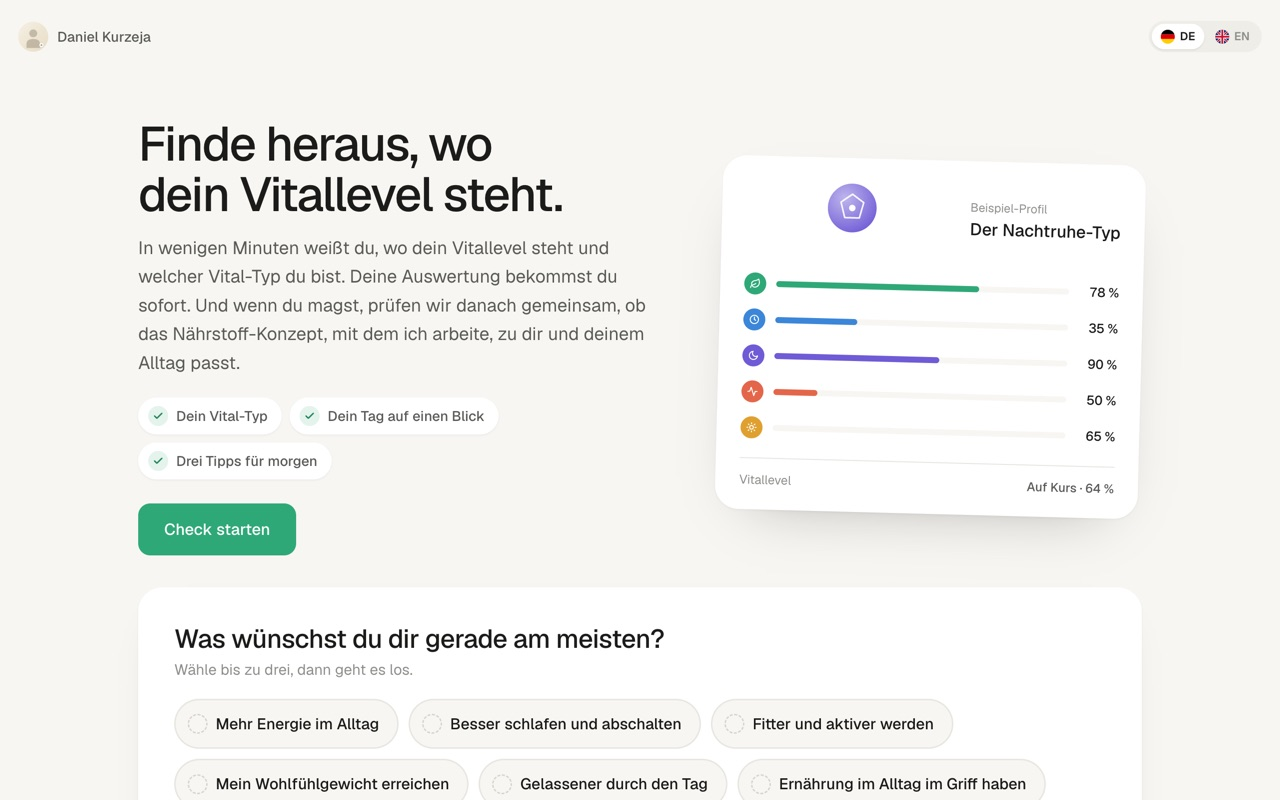
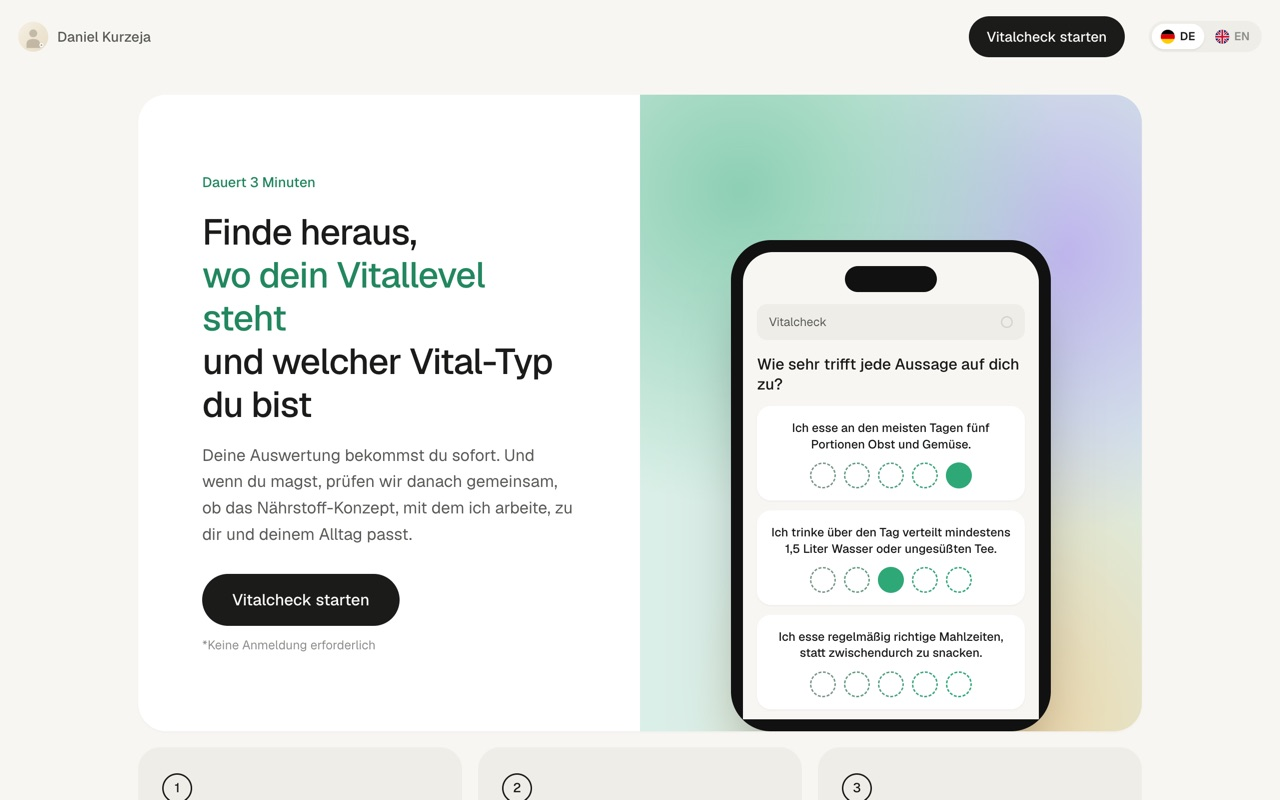
feat(vitalcheck-b): Startseite nach mindprofile-Vorbild (Hero-Karte mit Handy-Mockup, drei Schritt-Karten, Footer-Block), Skala mit gleich großen Kreisen, Wünsche als erste Check-Seite

diff --git a/templates/vitalcheck-b/index.html b/templates/vitalcheck-b/index.html
@@ -65,7 +65,7 @@ h1, h2, h3 { font-weight: 500; letter-spacing: -0.015em; line-height: 1.2; }
 .lang button { display: inline-flex; align-items: center; gap: 5px; padding: 4px 9px; border-radius: 9999px; font-size: 11.5px; font-weight: 600; color: var(--ink-3); }
 .lang button svg { width: 14px; height: 14px; border-radius: 50%; }
 html[data-lang="de"] .lang [data-lang="de"], html[data-lang="en"] .lang [data-lang="en"] { background: var(--paper); color: var(--ink); box-shadow: 0 1px 2px rgba(0,0,0,0.08); }
-@media (max-width: 720px) { .top { flex-wrap: wrap; } .brand { order: 1; } .lang { order: 2; margin-left: auto; } .pill { order: 3; } .brand span { display: none; } }
+@media (max-width: 720px) { .top { flex-wrap: wrap; } .brand { order: 1; } .btn-top { order: 2; } .lang { order: 3; margin-left: auto; } .pill { order: 4; } .brand span { display: none; } .top.landing .lang { margin-left: 8px; } }
 
 /* Seite */
 main { flex: 1; width: 100%; max-width: var(--col); margin: 0 auto; padding: 22px 18px 80px; }
@@ -106,6 +106,47 @@ html[data-theme="midnight"] .hero .gets li i { color: var(--accent); }
 html[data-theme="midnight"] .start .sec-head .no { background: var(--accent); color: var(--on-accent); }
 .start .sec-head h2 { font-size: 20px; }
 .start .sec-head small { font-size: 13.5px; color: var(--ink-3); margin-left: auto; }
+/* ===== Landing nach Vorbild: weiße Hero-Karte, Handy-Mockup, drei Schritt-Karten ===== */
+.top .btn-top { display: none; margin-left: auto; padding: 10px 18px; border-radius: 9999px; background: var(--ink); color: var(--bg); font-size: 14px; font-weight: 500; }
+html[data-theme="midnight"] .top .btn-top { background: var(--accent); color: var(--on-accent); }
+.top.landing .btn-top { display: inline-flex; }
+.top.landing .lang { margin-left: 12px; }
+.lp-hero { display: grid; grid-template-columns: 1fr 1fr; background: var(--paper); border-radius: 28px; overflow: hidden; box-shadow: 0 1px 2px rgba(0,0,0,0.03); }
+.lp-copy { padding: clamp(36px, 6vw, 88px) clamp(28px, 5vw, 64px); display: flex; flex-direction: column; justify-content: center; }
+.lp-copy .kick { font-size: 14px; font-weight: 500; color: var(--accent-dark); margin-bottom: 18px; }
+html[data-theme="midnight"] .lp-copy .kick { color: var(--accent); }
+.lp-copy h1 { font-size: clamp(28px, 3vw, 36px); font-weight: 500; letter-spacing: -0.02em; line-height: 1.2; margin-bottom: 16px; }
+.lp-copy h1 em { font-style: normal; color: var(--accent-dark); display: block; }
+html[data-theme="midnight"] .lp-copy h1 em { color: var(--accent); }
+.lp-copy p { color: var(--ink-2); font-size: 16.5px; line-height: 1.6; max-width: 42ch; margin-bottom: 26px; }
+.lp-copy .btn { align-self: flex-start; border-radius: 9999px; padding: 0 30px; }
+.lp-copy .fine { margin-top: 10px; font-size: 12.5px; color: var(--ink-3); }
+.lp-visual { position: relative; min-height: 460px; background: radial-gradient(120% 90% at 20% 15%, color-mix(in srgb, var(--accent) 55%, #fff) 0%, transparent 55%), radial-gradient(90% 80% at 85% 25%, color-mix(in srgb, #6E5BD6 45%, #fff) 0%, transparent 55%), radial-gradient(100% 90% at 70% 100%, color-mix(in srgb, #E0A030 45%, #fff) 0%, transparent 60%), color-mix(in srgb, var(--accent) 18%, #fff); display: flex; align-items: flex-end; justify-content: center; padding: 36px 24px 0; overflow: hidden; }
+html[data-theme="midnight"] .lp-visual { background: radial-gradient(120% 90% at 20% 15%, color-mix(in srgb, var(--accent) 40%, #0E1412) 0%, transparent 55%), radial-gradient(90% 80% at 85% 25%, color-mix(in srgb, #6E5BD6 35%, #0E1412) 0%, transparent 55%), #16201B; }
+.phone { width: min(320px, 100%); background: #111; border-radius: 40px; padding: 12px; box-shadow: 0 40px 70px -30px rgba(0,0,0,0.55); }
+.phone .scr { background: var(--bg); border-radius: 30px 30px 0 0; padding: 14px 14px 0; min-height: 420px; position: relative; overflow: hidden; }
+.phone .notch { width: 92px; height: 26px; background: #111; border-radius: 14px; margin: 0 auto 12px; }
+.phone .ppill { display: flex; align-items: center; justify-content: space-between; padding: 9px 12px; border-radius: 10px; background: var(--pill); font-size: 12px; color: var(--ink-2); margin-bottom: 14px; }
+.phone .ppill i { width: 12px; height: 12px; border-radius: 50%; border: 1.5px solid var(--line-2); }
+.phone h4 { font-size: 15.5px; font-weight: 500; line-height: 1.3; margin-bottom: 12px; }
+.phone .pc { background: var(--paper); border-radius: 14px; padding: 14px 12px 12px; margin-bottom: 10px; text-align: center; box-shadow: 0 1px 2px rgba(0,0,0,0.04); }
+.phone .pc p { font-size: 12px; font-weight: 500; line-height: 1.35; margin-bottom: 10px; }
+.phone .pc .ps { display: flex; justify-content: center; gap: 8px; }
+.phone .pc .ps i { width: 26px; height: 26px; border-radius: 50%; border: 1.5px dashed; }
+.phone .pc .ps i:nth-child(1) { border-color: var(--k0); } .phone .pc .ps i:nth-child(2) { border-color: var(--k1); } .phone .pc .ps i:nth-child(3) { border-color: var(--k2); } .phone .pc .ps i:nth-child(4) { border-color: var(--k3); } .phone .pc .ps i:nth-child(5) { border-color: var(--k4); }
+.phone .pc .ps i.on { background: var(--accent); border: 0; }
+.lp-steps { display: grid; grid-template-columns: repeat(3, 1fr); gap: 16px; margin-top: 16px; }
+.lp-step { background: var(--pill); border-radius: 22px; padding: 26px 24px 28px; }
+.lp-step .no { width: 30px; height: 30px; border-radius: 50%; border: 1.5px solid var(--ink); display: inline-flex; align-items: center; justify-content: center; font-size: 13px; font-weight: 500; margin-bottom: 18px; }
+.lp-step h3 { font-size: 19px; font-weight: 500; margin-bottom: 8px; }
+.lp-step p { font-size: 14.5px; color: var(--ink-2); line-height: 1.55; }
+@media (max-width: 900px) { .lp-hero { grid-template-columns: 1fr; } .lp-copy { text-align: center; align-items: center; padding: 36px 24px 30px; } .lp-copy .btn { align-self: center; width: 100%; max-width: 360px; } .lp-copy p { margin-left: auto; margin-right: auto; } .lp-visual { min-height: 380px; padding-top: 28px; } .lp-steps { grid-template-columns: 1fr 1fr; } .lp-step:last-child { grid-column: 1 / -1; } }
+@media (max-width: 560px) { .lp-steps { grid-template-columns: 1fr; } .lp-step:last-child { grid-column: auto; } .top .btn-top { padding: 9px 14px; font-size: 13px; } }
+/* Footer als abgerundeter Block */
+footer { border-top: 0; padding: 16px 18px 24px; }
+.foot { background: var(--pill); border-radius: 24px; padding: 28px 26px 30px; }
+main.wide + footer .foot { max-width: 1040px; }
+
 /* Landing: keine Fortschritts-Pille vor dem Start, Karte in Hero-Breite */
 .top.landing .pill { visibility: hidden; }
 @media (max-width: 720px) { .top.landing .pill { display: none; } }
@@ -146,19 +187,19 @@ html[data-theme="midnight"] .hero .pills span i { color: var(--accent); }
 .opt .c { width: 50px; height: 50px; border-radius: 50%; border: 1.5px dashed; display: inline-flex; align-items: center; justify-content: center; transition: transform 0.2s var(--ease), background 0.2s, border-style 0.2s; }
 .opt .c svg { width: 20px; height: 20px; color: #fff; opacity: 0; transition: opacity 0.15s; }
 .opt:hover .c { transform: scale(1.08); }
-.opt[data-v="0"] .c { border-color: var(--k0); background: color-mix(in srgb, var(--k0) 10%, var(--paper)); width: 40px; height: 40px; }
-.opt[data-v="1"] .c { border-color: var(--k1); background: color-mix(in srgb, var(--k1) 12%, var(--paper)); width: 44px; height: 44px; }
-.opt[data-v="2"] .c { border-color: var(--k2); background: color-mix(in srgb, var(--k2) 14%, var(--paper)); width: 48px; height: 48px; }
-.opt[data-v="3"] .c { border-color: var(--k3); background: color-mix(in srgb, var(--k3) 16%, var(--paper)); width: 52px; height: 52px; }
-.opt[data-v="4"] .c { border-color: var(--k4); background: color-mix(in srgb, var(--k4) 18%, var(--paper)); width: 56px; height: 56px; }
+.opt[data-v="0"] .c { border-color: var(--k0); background: color-mix(in srgb, var(--k0) 10%, var(--paper)); }
+.opt[data-v="1"] .c { border-color: var(--k1); background: color-mix(in srgb, var(--k1) 12%, var(--paper)); }
+.opt[data-v="2"] .c { border-color: var(--k2); background: color-mix(in srgb, var(--k2) 14%, var(--paper)); }
+.opt[data-v="3"] .c { border-color: var(--k3); background: color-mix(in srgb, var(--k3) 16%, var(--paper)); }
+.opt[data-v="4"] .c { border-color: var(--k4); background: color-mix(in srgb, var(--k4) 18%, var(--paper)); }
 .opt.on[data-v="0"] .c { background: var(--k0); } .opt.on[data-v="1"] .c { background: var(--k1); } .opt.on[data-v="2"] .c { background: var(--k2); } .opt.on[data-v="3"] .c { background: var(--k3); } .opt.on[data-v="4"] .c { background: var(--k4); }
-.opt { justify-content: flex-end; }
-.scale { align-items: end; }
+.opt { justify-content: flex-start; }
+.scale { align-items: start; }
 .opt.on .c { border-style: solid; transform: scale(1.06); }
 .opt.on .c svg { opacity: 1; }
 .opt small { font-size: 11.5px; line-height: 1.25; color: var(--ink-3); max-width: 84px; }
 .card:not(.labels) .opt small { display: none; }
-@media (max-width: 420px) { .opt[data-v="0"] .c { width: 34px; height: 34px; } .opt[data-v="1"] .c { width: 38px; height: 38px; } .opt[data-v="2"] .c { width: 42px; height: 42px; } .opt[data-v="3"] .c { width: 46px; height: 46px; } .opt[data-v="4"] .c { width: 50px; height: 50px; } .opt .c svg { width: 18px; height: 18px; } .opt small { font-size: 10.5px; } }
+@media (max-width: 420px) { .opt .c { width: 44px; height: 44px; } .opt .c svg { width: 18px; height: 18px; } .opt small { font-size: 10.5px; } }
 
 .btnrow { margin: 22px 0 0; display: flex; flex-direction: column; align-items: center; gap: 10px; }
 .btn { display: inline-flex; align-items: center; justify-content: center; gap: 8px; min-height: 52px; padding: 0 26px; border-radius: 12px; font-weight: 500; font-size: 16px; transition: transform 0.2s var(--ease), background 0.15s, opacity 0.15s; }
@@ -335,6 +376,7 @@ html[data-theme="midnight"] .links .made img { filter: invert(1); }
 <div class="top">
   <a href="/" class="brand"><img src="{{profilbild}}" alt="{{vorname}} {{nachname}}" width="30" height="30"><span>{{vorname}} {{nachname}}</span></a>
   <div class="pill"><svg class="ring" viewBox="0 0 24 24"><circle class="bgc" cx="12" cy="12" r="9"/><circle class="fgc" id="ring" cx="12" cy="12" r="9" stroke-dasharray="56.5" stroke-dashoffset="56.5"/></svg><b>Vitalcheck</b><span class="pct num" id="pct"></span></div>
+  <button type="button" class="btn-top" id="topStart"><span class="l-de">Vitalcheck starten</span><span class="l-en">Start the check</span></button>
   <div class="lang" role="group" aria-label="Sprache / Language">
     <button type="button" data-lang="de" onclick="fsSetLang('de')" aria-label="Deutsch"><svg viewBox="0 0 24 24"><rect width="24" height="8" fill="#000"/><rect y="8" width="24" height="8" fill="#D00"/><rect y="16" width="24" height="8" fill="#FFCE00"/></svg>DE</button>
     <button type="button" data-lang="en" onclick="fsSetLang('en')" aria-label="English"><svg viewBox="0 0 24 24"><rect width="24" height="24" fill="#012169"/><path d="M0 0L24 24M24 0L0 24" stroke="#fff" stroke-width="4"/><path d="M0 0L24 24M24 0L0 24" stroke="#C8102E" stroke-width="2"/><path d="M12 0V24M0 12H24" stroke="#fff" stroke-width="6"/><path d="M12 0V24M0 12H24" stroke="#C8102E" stroke-width="3"/></svg>EN</button>
@@ -591,7 +633,7 @@ var VC = (function(){
   function esc(s){ return String(s).replace(/&/g,'&amp;').replace(/</g,'&lt;').replace(/>/g,'&gt;').replace(/"/g,'&quot;'); }
   function en(){ return L() === 'en'; }
 
-  function steps(){ var s = ['wishes']; CFG.dims.forEach(function(d, i){ s.push('area:' + i); }); if (CFG.flags.motive) s.push('motive'); if (CFG.flags.invest) s.push('invest'); s.push('reveal', 'result', 'lead', 'done'); return s; }
+  function steps(){ var s = ['landing', 'wishes']; CFG.dims.forEach(function(d, i){ s.push('area:' + i); }); if (CFG.flags.motive) s.push('motive'); if (CFG.flags.invest) s.push('invest'); s.push('reveal', 'result', 'lead', 'done'); return s; }
   function answeredCount(){ return Object.keys(S.answers).length; }
   function scores(){ return CFG.dims.map(function(d, di){ var s = 0; d.q.forEach(function(q, qi){ var v = S.answers[di + ':' + qi]; if (v !== undefined) s += v; }); return s; }); }  /* max 16 je Bereich */
   function ratios(){ return scores().map(function(s){ return s / 16; }); }
@@ -609,13 +651,15 @@ var VC = (function(){
   function paintTop(){
     var p = Math.round(answeredCount() / 20 * 100), key = steps()[S.step];
     if (['reveal','result','lead','done'].indexOf(key) > -1) p = 100;
+    if (key === 'landing') p = 0;
     ring.style.strokeDashoffset = (56.5 - 56.5 * p / 100).toFixed(2);
     pctEl.textContent = p + ' % ' + (en() ? 'completed' : 'abgeschlossen');
   }
   function render(){
     var key = steps()[S.step], html = '';
     paintTop();
-    if (key === 'wishes') html = vWishes();
+    if (key === 'landing') html = vLanding();
+    else if (key === 'wishes') html = vWishes();
     else if (key.indexOf('area:') === 0) html = vArea(+key.split(':')[1]);
     else if (key === 'motive') html = vMotive();
     else if (key === 'invest') html = vInvest();
@@ -623,26 +667,33 @@ var VC = (function(){
     else if (key === 'result') html = vResult();
     else if (key === 'lead') html = vLead();
     else if (key === 'done') html = vDone();
-    root.classList.toggle('wide', key === 'wishes');
-    document.querySelector('.top').classList.toggle('landing', key === 'wishes');
+    root.classList.toggle('wide', key === 'landing');
+    document.querySelector('.top').classList.toggle('landing', key === 'landing');
     root.innerHTML = '<div class="step">' + html + '</div>';
     bind(key);
   }
 
   /* ---- Views ---- */
   function chip(attr, id, label, on){ return '<button type="button" class="chip' + (on ? ' on' : '') + '" data-' + attr + '="' + id + '"><span class="chk">' + ICO.check + '</span>' + esc(label) + '</button>'; }
+  function vLanding(){
+    var o = CFG.owner;
+    var pc = function(txt, on){ return '<div class="pc"><p>' + txt + '</p><div class="ps"><i' + (on === 0 ? ' class="on"' : '') + '></i><i' + (on === 1 ? ' class="on"' : '') + '></i><i' + (on === 2 ? ' class="on"' : '') + '></i><i' + (on === 3 ? ' class="on"' : '') + '></i><i' + (on === 4 ? ' class="on"' : '') + '></i></div></div>'; };
+    return '<div class="lp-hero"><div class="lp-copy">' +
+      '<div class="kick">' + (en() ? 'Takes 3 minutes' : 'Dauert 3 Minuten') + '</div>' +
+      '<h1>' + (en() ? 'Find out <em>where your vitality stands</em> and which type you are' : 'Finde heraus, <em>wo dein Vitallevel steht</em> und welcher Vital-Typ du bist') + '</h1>' +
+      '<p>' + (en() ? 'You get your evaluation right away. And if you like, we then check together whether the nutrient concept I work with fits you and your everyday life.' : 'Deine Auswertung bekommst du sofort. Und wenn du magst, prüfen wir danach gemeinsam, ob das Nährstoff-Konzept, mit dem ich arbeite, zu dir und deinem Alltag passt.') + '</p>' +
+      '<button type="button" class="btn btn-primary" data-next>' + (en() ? 'Start the vitality check' : 'Vitalcheck starten') + '</button>' +
+      '<div class="fine">' + (en() ? '*No sign-up required' : '*Keine Anmeldung erforderlich') + '</div></div>' +
+      '<div class="lp-visual" aria-hidden="true"><div class="phone"><div class="scr"><div class="notch"></div><div class="ppill"><span>Vitalcheck</span><i></i></div><h4>' + (en() ? 'How much does each statement apply to you?' : 'Wie sehr trifft jede Aussage auf dich zu?') + '</h4>' + pc(esc(t(CFG.dims[0].q[0].text)), 4) + pc(esc(t(CFG.dims[0].q[1].text)), 2) + pc(esc(t(CFG.dims[0].q[2].text)), -1) + '</div></div></div></div>' +
+      '<div class="lp-steps">' +
+      '<div class="lp-step"><span class="no">1</span><h3>' + (en() ? 'Get ready' : 'Mach dich bereit') + '</h3><p>' + (en() ? 'Take three quiet minutes. There is no right or wrong, only your everyday life as it usually is.' : 'Nimm dir drei ruhige Minuten. Es gibt kein Richtig oder Falsch, nur deinen Alltag, wie er meistens ist.') + '</p></div>' +
+      '<div class="lp-step"><span class="no">2</span><h3>' + (en() ? 'Do the check' : 'Mach den Check') + '</h3><p>' + (en() ? 'Answer 20 statements about how you eat, drink, move, sleep and structure your day.' : 'Beantworte 20 Aussagen dazu, wie du isst, trinkst, dich bewegst, schläfst und deinen Tag strukturierst.') + '</p></div>' +
+      '<div class="lp-step"><span class="no">3</span><h3>' + (en() ? 'Get your vitality profile' : 'Erhalte dein Vitalprofil') + '</h3><p>' + (en() ? 'Your vitality type, your day at a glance and three things you can start tomorrow.' : 'Dein Vital-Typ, dein Tag auf einen Blick und drei Dinge, die du morgen starten kannst.') + '</p></div></div>';
+  }
   function vWishes(){
-    var demo = [0.78, 0.35, 0.9, 0.5, 0.65];
-    var pill = function(txt){ return '<span><i>' + ICO.check + '</i>' + txt + '</span>'; };
-    return '<div class="hero"><div>' +
-      '<h1>' + (en() ? 'Find out where your vitality level stands.' : 'Finde heraus, wo dein Vitallevel steht.') + '</h1>' +
-      '<p>' + (en() ? 'In a few minutes you will know where your vitality level stands and which type you are. You get your evaluation right away. And if you like, we then check together whether the nutrient concept I work with fits you and your everyday life.' : 'In wenigen Minuten weißt du, wo dein Vitallevel steht und welcher Vital-Typ du bist. Deine Auswertung bekommst du sofort. Und wenn du magst, prüfen wir danach gemeinsam, ob das Nährstoff-Konzept, mit dem ich arbeite, zu dir und deinem Alltag passt.') + '</p>' +
-      '<div class="pills">' + pill(en() ? 'Your vitality type' : 'Dein Vital-Typ') + pill(en() ? 'Your day at a glance' : 'Dein Tag auf einen Blick') + pill(en() ? 'Three tips for tomorrow' : 'Drei Tipps für morgen') + '</div>' +
-      '<a href="#start" class="btn btn-accent" data-scroll>' + (en() ? 'Start the check' : 'Check starten') + '</a></div>' +
-      '<div class="pv" aria-hidden="true"><div class="pv-head">' + badgeSvg(CFG.dims[2].color) + '<div><small>' + (en() ? 'Example profile' : 'Beispiel-Profil') + '</small><b>' + (en() ? 'The Rester' : 'Der Nachtruhe-Typ') + '</b></div></div>' + CFG.dims.map(function(d, i){ return '<div class="pv-row"><i style="background:' + d.color + '">' + ICO[d.ico] + '</i><div class="b"><i style="--w:' + Math.round(demo[i]*100) + '%;background:' + d.color + ';animation-delay:' + (i*0.12) + 's"></i></div><span class="n num">' + Math.round(demo[i]*100) + ' %</span></div>'; }).join('') + '<div class="pv-foot"><span>' + (en() ? 'Vitality level' : 'Vitallevel') + '</span><b>' + (en() ? 'On track · 64 %' : 'Auf Kurs · 64 %') + '</b></div></div></div>' +
-      '<div class="startcard" id="start"><h2>' + (en() ? 'What would you like most right now?' : 'Was wünschst du dir gerade am meisten?') + '</h2><p class="sub">' + (en() ? 'Pick up to three, then we begin.' : 'Wähle bis zu drei, dann geht es los.') + '</p>' +
-      '<div class="chips">' + CFG.wishes.map(function(w){ return chip('wish', w.id, t(w), S.wishes.indexOf(w.id) > -1); }).join('') + '</div>' +
-      '<div class="foot"><small>' + (en() ? 'Nothing is sent unless you choose to at the end.' : 'Nichts wird gesendet, außer du entscheidest dich am Ende dafür.') + '</small><button type="button" class="btn btn-primary" data-next ' + (S.wishes.length ? '' : 'disabled') + '>' + (en() ? 'Continue' : 'Weiter') + '</button></div></div>';
+    return '<div class="pagehead"><h1>' + (en() ? 'What would you like most right now?' : 'Was wünschst du dir gerade am meisten?') + '</h1><p>' + (en() ? 'Pick up to three. Your profile will pick them up again.' : 'Wähle bis zu drei. Dein Profil greift sie wieder auf.') + '</p></div>' +
+      '<div class="card left"><div class="chips" style="justify-content:flex-start">' + CFG.wishes.map(function(w){ return chip('wish', w.id, t(w), S.wishes.indexOf(w.id) > -1); }).join('') + '</div></div>' +
+      '<div class="btnrow"><button type="button" class="btn btn-primary btn-wide" data-next ' + (S.wishes.length ? '' : 'disabled') + '>' + (en() ? 'Continue' : 'Weiter') + '</button><button type="button" class="skip" data-back>' + (en() ? 'Back' : 'Zurück') + '</button></div>';
   }
   function vArea(di){
     var d = CFG.dims[di], first = -1;
@@ -749,7 +800,6 @@ var VC = (function(){
       }
       go(S.step + 1);
     });
-    if (key === 'wishes') { var sc = root.querySelector('[data-scroll]'), card = document.getElementById('start'); if (sc) sc.addEventListener('click', function(e){ e.preventDefault(); card.scrollIntoView({ behavior: 'smooth', block: 'start' }); card.classList.add('focus'); setTimeout(function(){ card.classList.remove('focus'); }, 1800); }); }
     if (key === 'wishes') root.querySelectorAll('[data-wish]').forEach(function(c){ c.addEventListener('click', function(){ toggleIn(S.wishes, c.getAttribute('data-wish'), 3); save(); refresh('wish', S.wishes, 3); }); });
     if (key === 'motive') root.querySelectorAll('[data-motive]').forEach(function(c){ c.addEventListener('click', function(){ toggleIn(S.motives, c.getAttribute('data-motive'), 3); save(); refresh('motive', S.motives, 3); }); });
     if (key === 'invest') root.querySelectorAll('[data-invest]').forEach(function(c){ c.addEventListener('click', function(){ S.invest = c.getAttribute('data-invest'); save(); root.querySelectorAll('[data-invest]').forEach(function(x){ x.classList.toggle('on', x === c); }); root.querySelector('[data-next]').disabled = false; }); });
@@ -813,6 +863,7 @@ var VC = (function(){
     return body;
   }
 
+  document.getElementById('topStart').addEventListener('click', function(){ go(1); });
   if (S.sent) { S = fresh(); save(); }
   render();
   return { render: render };

diff --git a/templates/vitalcheck-b/template-readme.md b/templates/vitalcheck-b/template-readme.md
@@ -5,8 +5,8 @@ Zweite, eigenständige Variante des Vitalchecks (gleiche 20 Verhaltens-Aussagen,
 ## UI
 
 - Warmes Off-White, kleine Marke (Avatar + Name) links oben, schlanke Fortschritts-Pille „Vitalcheck · 35 % abgeschlossen“ mit Ring, Flaggen rechts
-- **Seite 1 als Landingpage** (ohne Fortschritts-Pille): Hero mit Headline, kurzer Einleitung, drei Pillen (Vital-Typ, Tag auf einen Blick, drei Tipps) und Button; rechts eine Beispiel-Profilkarte (Typ-Abzeichen, fünf animierte Balken, Level). Direkt darunter in derselben Breite die Start-Karte „Was wünschst du dir gerade am meisten?“ mit Chips und „Weiter“, also der Check eingebettet ohne zusätzliche Überschrift
-- **Ein Bereich pro Seite**: Überschrift „Wie sehr trifft jede Aussage auf dich zu?“, darunter die vier Aussagen als weiße Karten mit **fünfstufiger Skala** aus farbigen, gestrichelten Kreisen (Trifft gar nicht zu → Trifft voll zu, Beschriftung nur unter der ersten Karte). Die fünf Kreise sind **Abstufungen der Akzentfarbe** (zart bis voll) und werden nach rechts größer, keine Rot-Grün-Ampel wie beim Vorbild. Klick füllt den Kreis, die nächste offene Karte wird hervorgehoben und ins Bild gescrollt. „Weiter“ prüft, ob alles beantwortet ist.
+- **Startseite nach mindprofile.co/de/personality**: Kopfzeile mit Avatar/Name, dunklem Pill-Button „Vitalcheck starten“ und Flaggen (keine Fortschritts-Pille). Weiße Hero-Karte: links grüner Kicker „Dauert 3 Minuten“, dreizeilige Headline mit grüner Mittelzeile, kurzer Absatz, dunkler Pill-Button, „*Keine Anmeldung erforderlich“; rechts eine Farbfläche mit Handy-Mockup, das den Check zeigt. Darunter drei nummerierte Schritt-Karten (Mach dich bereit, Mach den Check, Erhalte dein Vitalprofil). Footer als abgerundeter grauer Block. Der Wunsch-Schritt ist die erste Check-Seite.
+- **Ein Bereich pro Seite**: Überschrift „Wie sehr trifft jede Aussage auf dich zu?“, darunter die vier Aussagen als weiße Karten mit **fünfstufiger Skala** aus farbigen, gestrichelten Kreisen (Trifft gar nicht zu → Trifft voll zu, Beschriftung nur unter der ersten Karte). Die fünf Kreise sind gleich groß und **Abstufungen der Akzentfarbe** (zart bis voll), keine Rot-Grün-Ampel wie beim Vorbild. Klick füllt den Kreis, die nächste offene Karte wird hervorgehoben und ins Bild gescrollt. „Weiter“ prüft, ob alles beantwortet ist.
 - Bewertung 0–4 je Aussage, 16 Punkte je Bereich, 80 gesamt (Level-Schwellen entsprechend verdoppelt)
 
 ## Auswertung („Dein Vitalprofil“)
